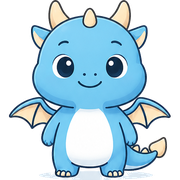
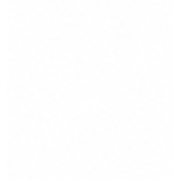
파비콘을 로고 시안 3번(한국 은행 느낌 M)으로 교체

diff --git a/index.html b/index.html
@@ -5,8 +5,8 @@
     <meta name="viewport" content="width=device-width, initial-scale=1">
     <meta name="description" content="미국 주식 시장 트리맵, 섹터 흐름, 급등주, 관심 종목 분석 대시보드">
     <title>미르의 미국 주식</title>
-    <link rel="icon" type="image/png" sizes="32x32" href="assets/favicon-32.png">
-    <link rel="apple-touch-icon" sizes="180x180" href="assets/apple-touch-icon.png">
+    <link rel="icon" type="image/png" sizes="32x32" href="assets/favicon-32.png?v=2">
+    <link rel="apple-touch-icon" sizes="180x180" href="assets/apple-touch-icon.png?v=2">
     <link rel="stylesheet" href="styles.css?v=20260616o">
   </head>
   <body>